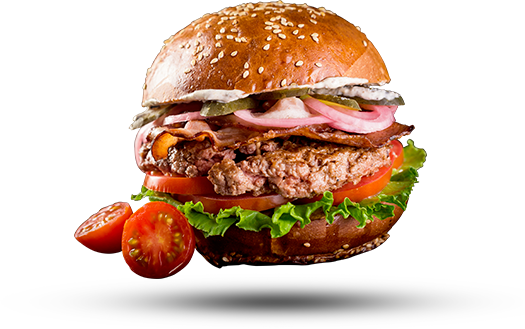
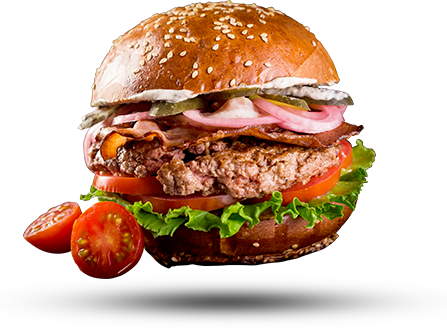
finish

diff --git a/index.html b/index.html
@@ -7,6 +7,7 @@
     <title>Burger SHOP</title>
     <link rel="stylesheet" href="reset.css">
     <link rel="stylesheet" href="style.css">
+    <link href="https://unpkg.com/aos@2.3.1/dist/aos.css" rel="stylesheet">
     
 </head>
 <body>
@@ -25,10 +26,10 @@
                                 Express Delivery +1 234 567 890
                         </div>
                         <div class="menu">
-                            <div>H &nbsp;o &nbsp;m &nbsp;e</div>
-                            <div>M &nbsp;e &nbsp;n &nbsp;u</div>
-                            <div>O &nbsp;u &nbsp;r &nbsp;&nbsp;S &nbsp;t &nbsp;o &nbsp;r &nbsp;y</div>
-                            <div>C &nbsp;o &nbsp;n &nbsp;t &nbsp;a &nbsp;c &nbsp;t</div>
+                            <div class="menu1">H &nbsp;o &nbsp;m &nbsp;e </div>
+                            <div class="menu2">M &nbsp;e &nbsp;n &nbsp;u</div>
+                            <div class="menu3">O &nbsp;u &nbsp;r &nbsp;&nbsp;S &nbsp;t &nbsp;o &nbsp;r &nbsp;y</div>
+                            <div  class="menu4">C &nbsp;o &nbsp;n &nbsp;t &nbsp;a &nbsp;c &nbsp;t</div>
                         </div>                   
                     </div>
                 </div>
@@ -61,14 +62,15 @@
         <div class="container">
             <div class="row">
                 <div class="section-1">
-                    <div class="section-1-box-1">
+                    <div data-aos="fade-right" class="section-1-box-1">
                         <img src="images/burger-1.png" alt="">
                         <div class="section-1-box-1-text">
                             <span>Try it today</span> 
                             <br> Most Popular Burger
                         </div>
                     </div>
-                    <div class="section-1-box-2">
+                    
+                    <div data-aos="fade-left" class="section-1-box-2">
                         <img src="images/burger-2.png" alt="">
                         <div class="section-1-box-2-text">
                             <span>Try it today</span> 
@@ -76,7 +78,7 @@
                             <br> more taste
                         </div>
                     </div>
-                    <div class="section-1-box-3">
+                    <div data-aos="fade-left" class="section-1-box-3">
                         <img src="images/burger-3.png" alt="">
                         <div class="section-1-box-3-text">
                             <span>Try it today</span> 
@@ -101,7 +103,7 @@
                     
                     <div class="burger-sections">
                         <div class="burger-1">
-                            <img src="images/burger-2-1.png" alt="" height="360px">
+                            <img src="images/burger-2-1.png" alt="" >
                             <div class="burger-text">
                                 <h1>Lorem ipsum dolor</h1>
                                 Lorem ipsum dolor sit amet, consectetur adipiscing elit, sed do
@@ -109,7 +111,7 @@
                             <button class="btn-order-now">Order Now</button>
                         </div>
                         <div class="burger-2">
-                            <img src="images/burger-2-2.png" alt="">
+                            <img src="images/burger-2-2.png" alt="" height="328px">
                             <div class="burger-text">
                                 <h1>Lorem ipsum dolor</h1>
                                 Lorem ipsum dolor sit amet, consectetur adipiscing elit, sed do
@@ -117,7 +119,7 @@
                             <button class="btn-order-now">Order Now</button>
                         </div>
                         <div class="burger-3">
-                            <img src="images/burger-2-1.png" alt="" height="360px">
+                            <img src="images/burger-2-1.png" alt="" >
                             <div class="burger-text">
                                 <h1>Lorem ipsum dolor</h1>
                                 Lorem ipsum dolor sit amet, consectetur adipiscing elit, sed do
@@ -239,5 +241,9 @@
 
     </section>
 
+    <script src="https://unpkg.com/aos@2.3.1/dist/aos.js"></script>
+    <script>
+        AOS.init();
+    </script>
 </body>
 </html>

diff --git a/style.scss b/style.scss
@@ -81,16 +81,34 @@
         line-height: 40px;
         margin-right: 20px;
 
+        .menu1{
+            width: 105px;
+        }
+
+        .menu2{
+            width: 110px;
+        }
+
+        .menu3{
+            width: 175px;
+        }
+
+        .menu4{
+            width: 155px;
+        }
+
         div{
             margin: 0;
             border: 3px solid rgb(128, 51, 51, 0);
             padding: 0 20px;
-
+        
 
             &:hover{
                 border: 3px dashed black;
                 cursor: pointer;
                 font-size: 25px;
+                padding: 5px 15px;
+
 
             }
         }
@@ -195,7 +213,6 @@
 .section-2{
     display: grid;
     justify-items: center;
-    width: 100px;
     color: rgb(61, 37, 20);
 
     .btn-always-tasty{
@@ -244,6 +261,8 @@
             font-size: 17px;
             line-height: 1.5;
             margin-bottom: 35px;
+            margin-left: -50px;
+            padding: 0 50px;
             
             h1{
                 font-family: 'Bebas Neue';
@@ -265,7 +284,7 @@
                 font-family: 'Alfa Slab One', cursive;
                 font-size: 17px;
                 border: none;
-                margin-left: 28%;
+                margin-left: 25%;
                 margin-bottom: 130px;
                 cursor: pointer;
 
@@ -414,7 +433,7 @@
         grid-template-rows: 60px 60px 60px;
         grid-gap: 25px;
         justify-content: center;
-        margin-bottom: 10px;
+        margin-bottom: 130px;
 
         input{
             font-family: 'Bebas Neue';
@@ -538,3 +557,6 @@
         padding-left: 73%;
     }
 }
+
+
+

diff --git a/style.css b/style.css
@@ -70,6 +70,18 @@
   line-height: 40px;
   margin-right: 20px;
 }
+.menu-line .menu .menu1 {
+  width: 105px;
+}
+.menu-line .menu .menu2 {
+  width: 110px;
+}
+.menu-line .menu .menu3 {
+  width: 175px;
+}
+.menu-line .menu .menu4 {
+  width: 155px;
+}
 .menu-line .menu div {
   margin: 0;
   border: 3px solid rgba(128, 51, 51, 0);
@@ -79,6 +91,7 @@
   border: 3px dashed black;
   cursor: pointer;
   font-size: 25px;
+  padding: 5px 15px;
 }
 
 .title-poster {
@@ -166,7 +179,6 @@
 .section-2 {
   display: grid;
   justify-items: center;
-  width: 100px;
   color: rgb(61, 37, 20);
 }
 .section-2 .btn-always-tasty {
@@ -211,6 +223,8 @@
   font-size: 17px;
   line-height: 1.5;
   margin-bottom: 35px;
+  margin-left: -50px;
+  padding: 0 50px;
 }
 .section-2 .burger-sections .burger-text h1 {
   font-family: "Bebas Neue";
@@ -227,7 +241,7 @@
   font-family: "Alfa Slab One", cursive;
   font-size: 17px;
   border: none;
-  margin-left: 28%;
+  margin-left: 25%;
   margin-bottom: 130px;
   cursor: pointer;
 }
@@ -349,7 +363,7 @@
   grid-template-rows: 60px 60px 60px;
   grid-gap: 25px;
   justify-content: center;
-  margin-bottom: 10px;
+  margin-bottom: 130px;
 }
 .reservation .reservation-form input {
   font-family: "Bebas Neue";
